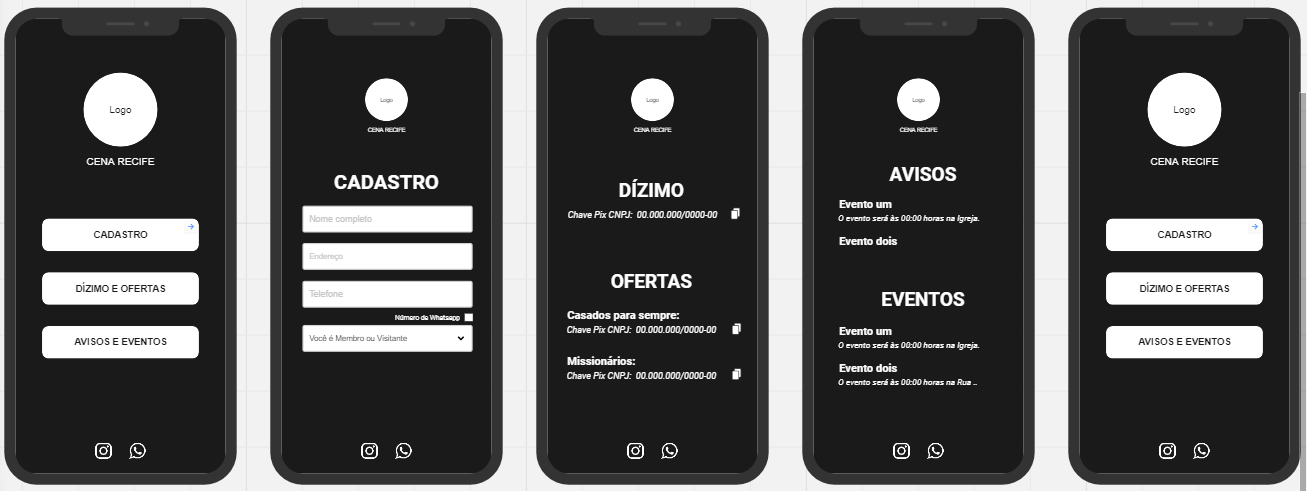
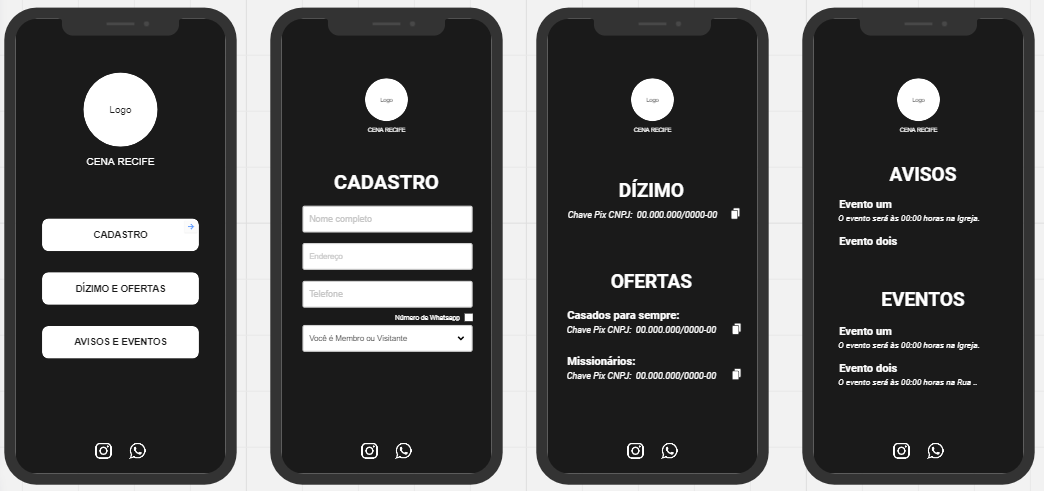
feat: Layout de algumas págs. Também coloquei a imagem da aparência que o projeto deve ter.

diff --git a/src/components/Footer/index.tsx b/src/components/Footer/index.tsx
@@ -5,9 +5,19 @@ import React from 'react';
 
 export function Footer() {
     return (
-        <View style={styles.containerScreen}>
-            <Entypo name="instagram" size={30} color="white" style={{ marginHorizontal: "5%" }} onPress={() => Linking.openURL('instagram://user?username=cenarecifee')} />
-            <FontAwesome name="whatsapp" size={35} color="white" style={{ marginHorizontal: "5%" }} onPress={() => Linking.openURL('https://wa.me/554797591415?text=Olá pastor Jones, gostaria de conhecer mais da Cena Recife!')} />
+        <View style={{ flexDirection: 'row', alignItems: 'center', justifyContent: 'center', marginVertical: "5%" }}>
+            <Entypo
+                name="instagram"
+                size={30} color="white"
+                style={{ marginHorizontal: "5%" }}
+                onPress={() => Linking.openURL('instagram://user?username=cenarecifee')}
+            />
+            <FontAwesome
+                name="whatsapp"
+                size={35} color="white"
+                style={{ marginHorizontal: "5%" }}
+                onPress={() => Linking.openURL('https://wa.me/554797591415?text=Olá pastor Jones, gostaria de conhecer mais da Cena Recife!')}
+            />
         </View>
     );
 }

diff --git a/src/routes/stack.routes.tsx b/src/routes/stack.routes.tsx
@@ -13,18 +13,22 @@ export function StackRoutes() {
       <Screen
         name="Home"
         component={HomeScreen}
+        options={{ headerShown: false }}
       />
       <Screen
         name="NoticesEventsScreen"
         component={NoticesEventsScreen}
+        options={{ headerShown: false }}
       />
       <Screen
         name="RegisterScreen"
         component={RegisterScreen}
+        options={{ headerShown: false }}
       />
       <Screen
         name="TitheOffertsScreen"
         component={TitheOffertsScreen}
+        options={{ headerShown: false }}
       />
     </Navigator>
   )

diff --git a/src/screens/RegisterScreen/style.tsx b/src/screens/RegisterScreen/style.tsx
@@ -5,7 +5,7 @@ export const styles = StyleSheet.create({
         flex: 1,
         width: "100%",
         height: "100%",
-        backgroundColor: '#0F0F0F',
+        backgroundColor: '#000000',
         alignItems: 'center', // Alinhamento horizontal
         justifyContent: 'space-between', // Alinhamento vertical
     },
@@ -42,7 +42,6 @@ export const styles = StyleSheet.create({
     },
     textInButton: {
         color: '#4E4E4E',
-        fontSize: 16,
         fontWeight: '500',
     },
     button: {

diff --git a/src/screens/HomeScreen/style.tsx b/src/screens/HomeScreen/style.tsx
@@ -15,7 +15,7 @@ export const styles = StyleSheet.create({
         marginTop: "30%",
         marginBottom: "5%",
     },
- button: {
+    button: {
         backgroundColor: '#EEEEEE',
         padding: "4%",
         width: "60%",
@@ -30,7 +30,6 @@ export const styles = StyleSheet.create({
     },
     textInButton: {
         color: '#4E4E4E',
-        fontSize: 16,
-        fontWeight: '500',
+        fontWeight: 'bold',
     },
 })

diff --git a/src/components/Footer/style.tsx b/src/components/Footer/style.tsx
@@ -4,7 +4,6 @@ export const styles = StyleSheet.create({
     containerScreen: {
         flex: 1,
         width: "100%",
-        height: "100%",
         backgroundColor: '#0F0F0F',
         alignItems: 'center', // Alinhamento horizontal
         justifyContent: 'space-between', // Alinhamento vertical

diff --git a/src/screens/TitheOffertsScreen/style.tsx b/src/screens/TitheOffertsScreen/style.tsx
@@ -26,7 +26,6 @@ export const styles = StyleSheet.create({
     informationText: {
         color: '#AAAAAA',
         fontStyle: 'italic',
-        fontSize: 16,
     },
     subTitleText: {
         color: '#FFFFFF',
